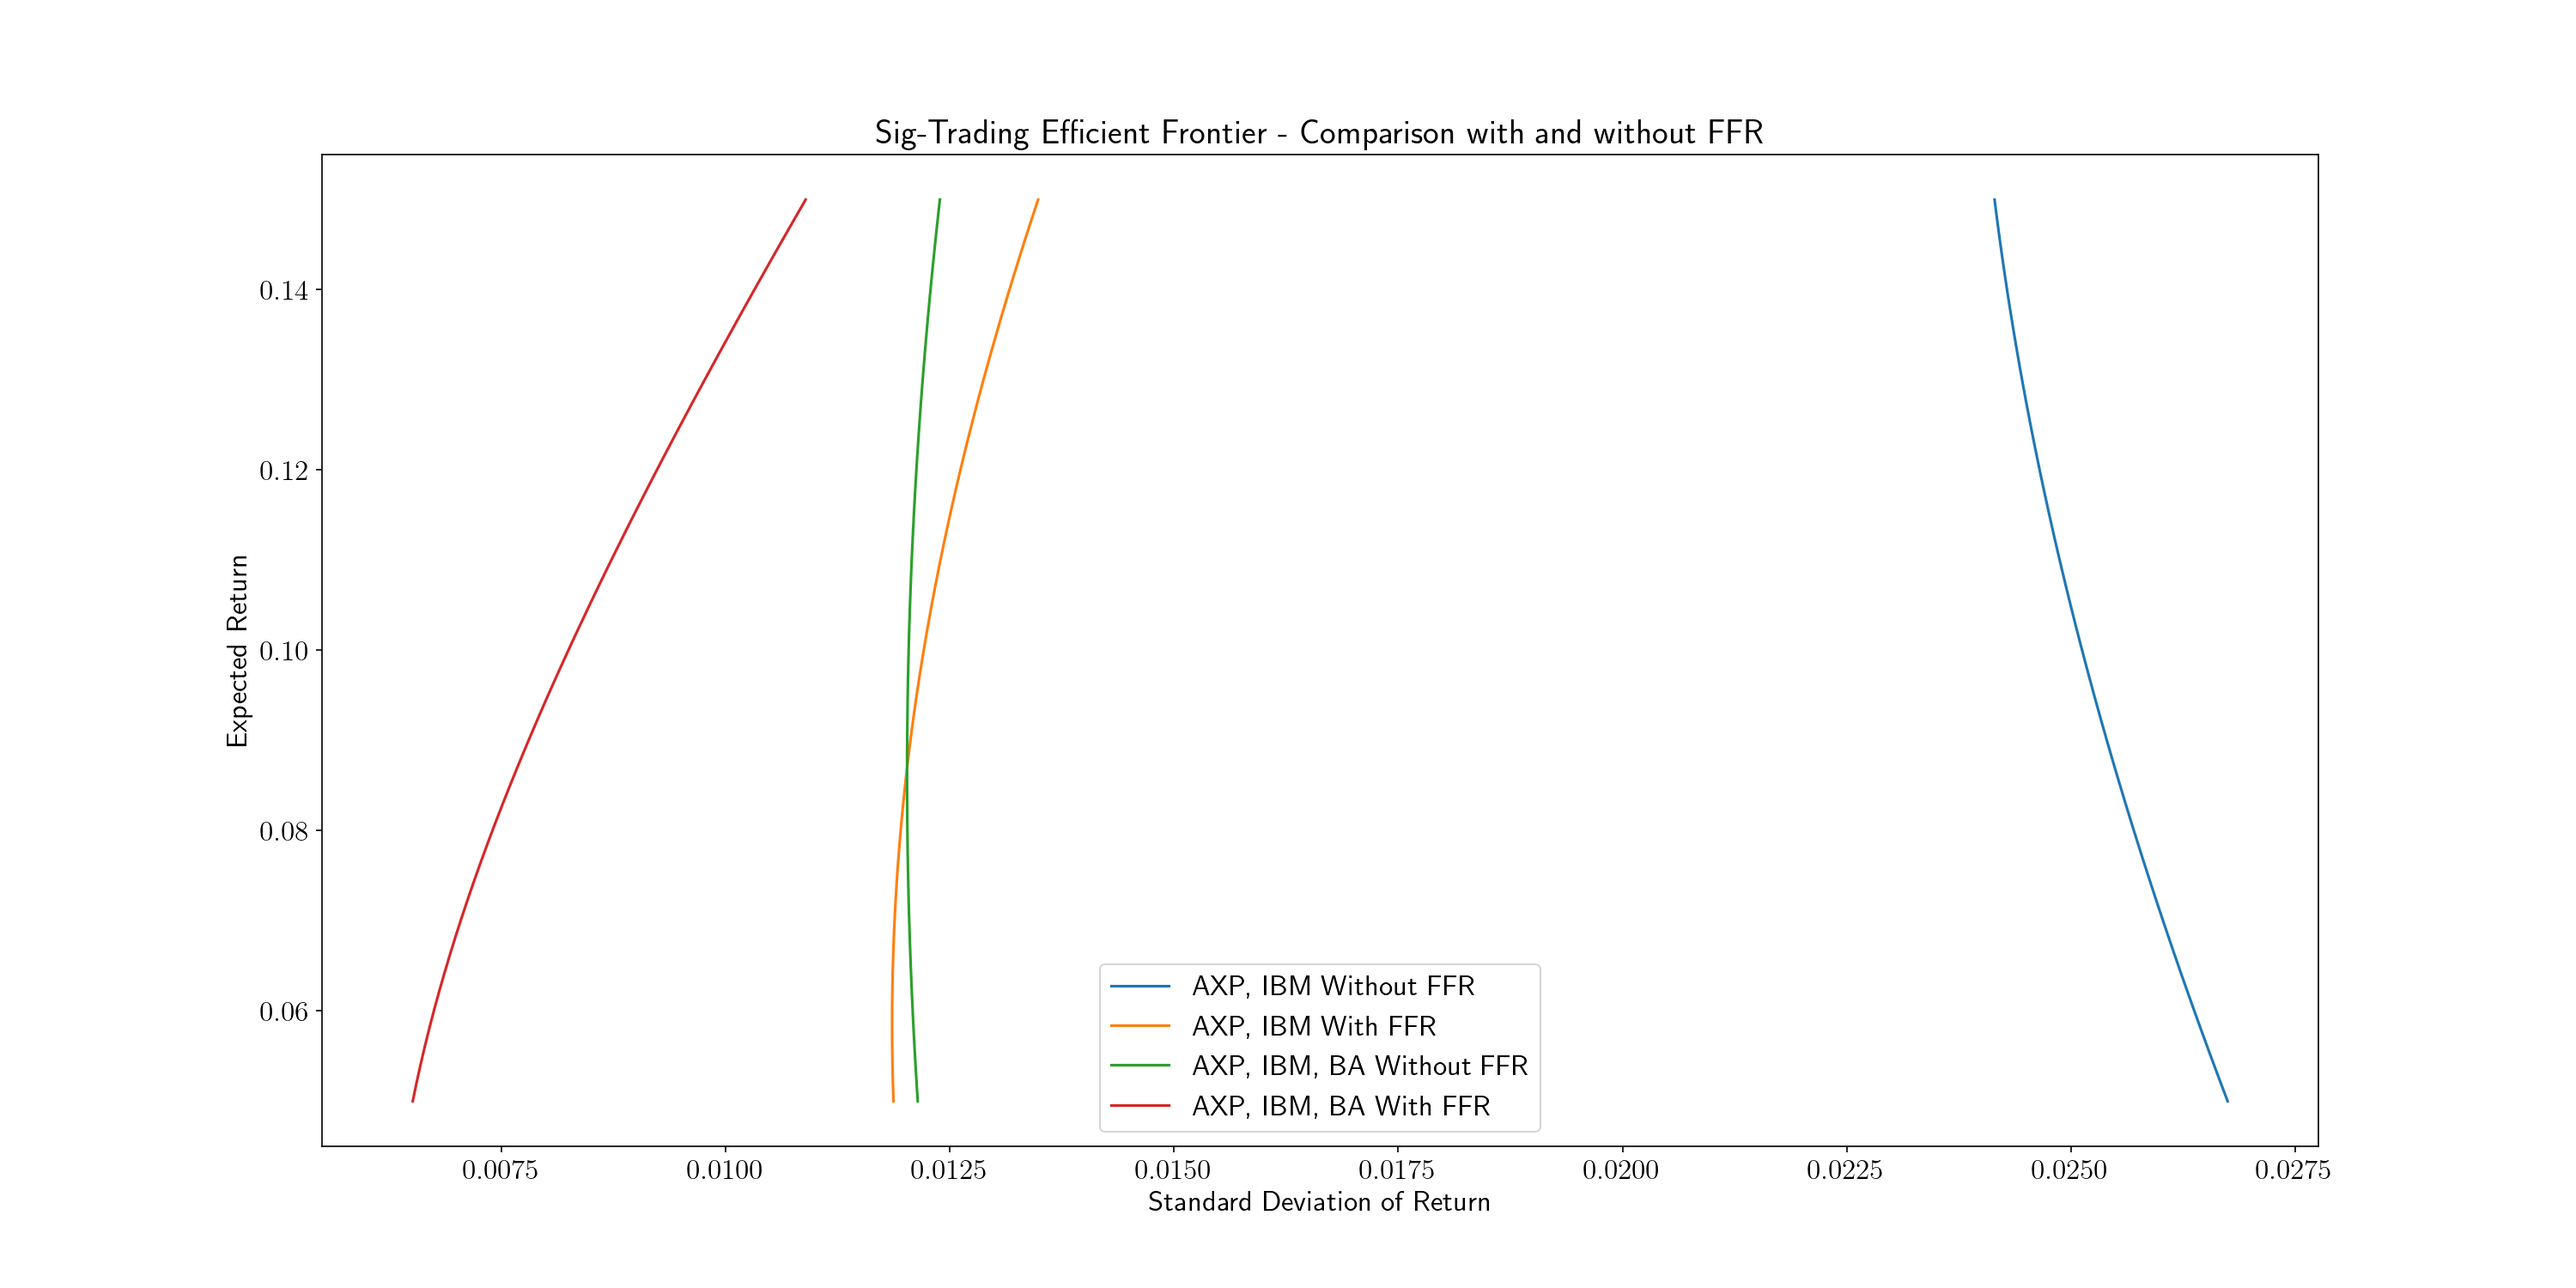
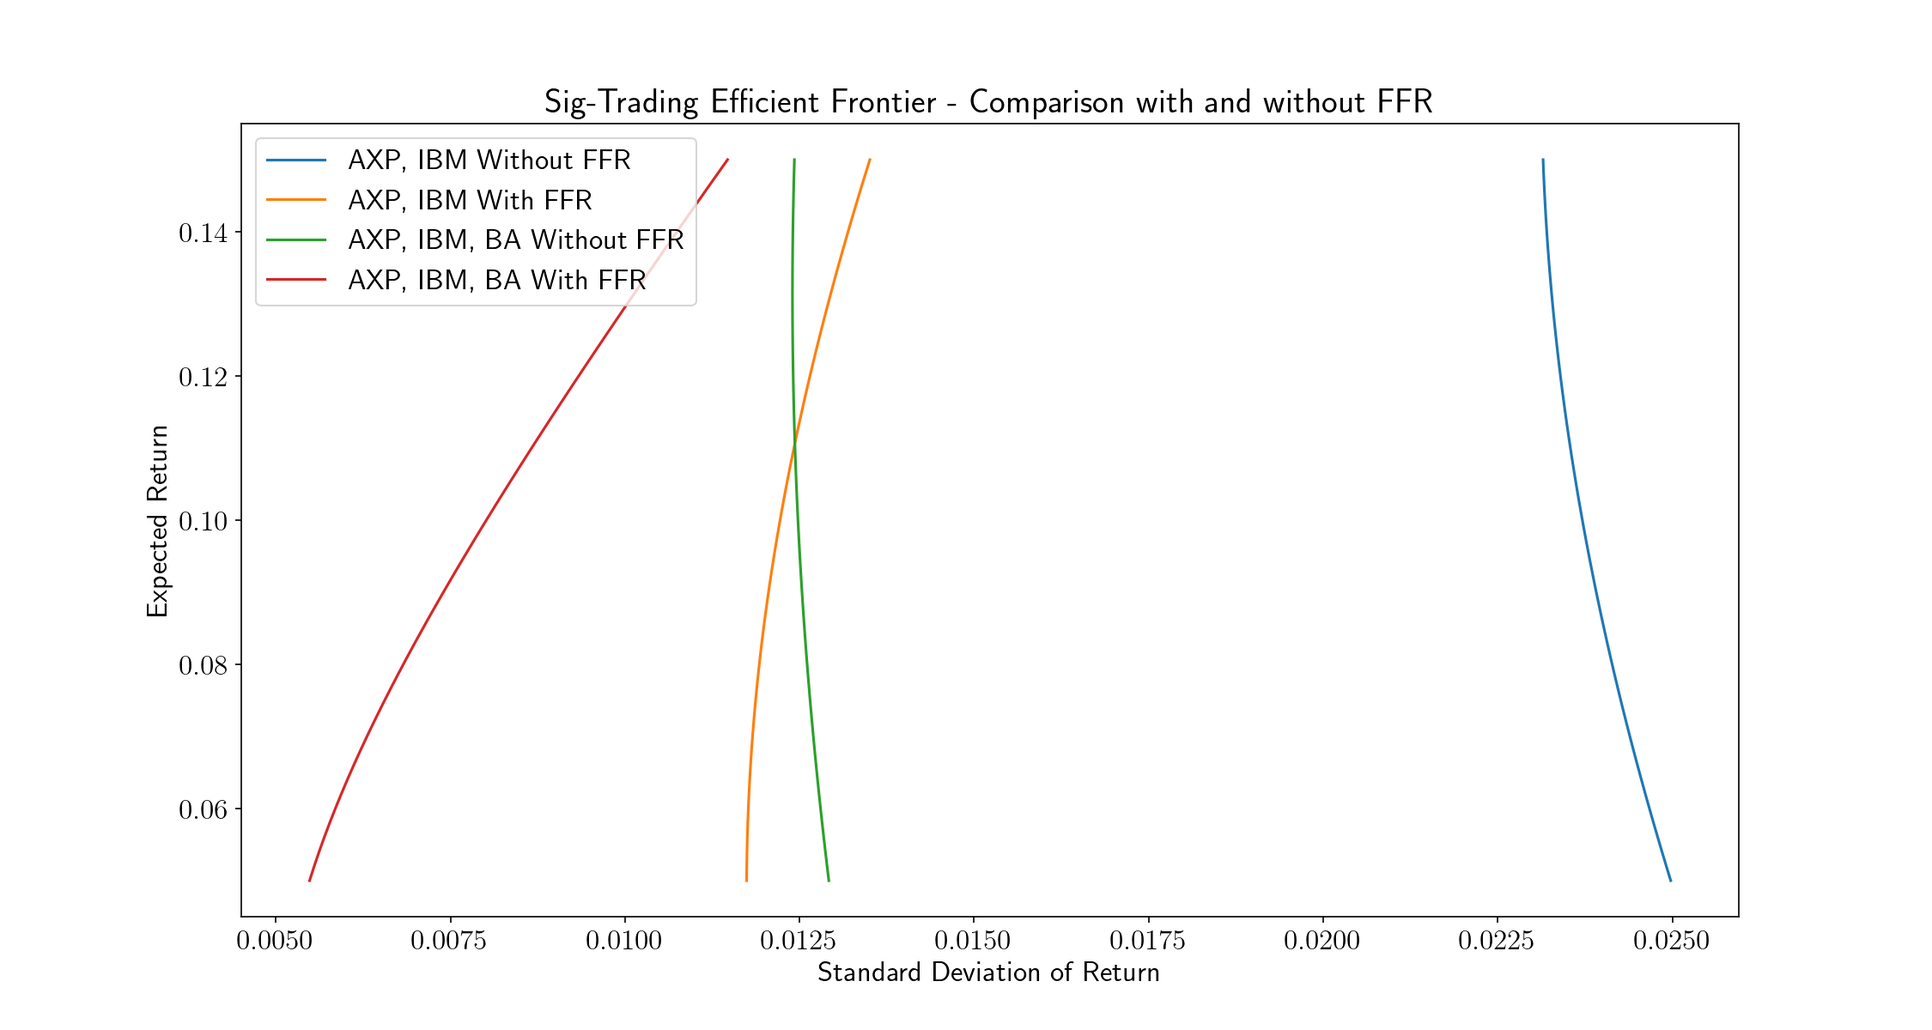
More tests

diff --git a/optimisation/sig_trading_run.py b/optimisation/sig_trading_run.py
@@ -148,8 +148,8 @@ def combine_all(stocks, level=2, start_date='2017-01-01', end_date='2018-01-01',
 
 
 # Choices are: AAPL, AXP, BA, CAT, CSCO, DIS, GS, HD, IBM, JPM, KO, MCD, MRK, UNH, WBA
-# stocks = ["AXP", "IBM", "BA"]
-stocks = ["JPM", "GS", "UNH"]
+stocks = ["AXP", "IBM", "BA"]
+# stocks = ["JPM", "GS", "UNH"]
 interval = (0.05, 0.15)
 pnl_n, var_n, weight_n = combine_all(stocks[:2], include_ffr=False, plot=True, frontier_interval=interval)
 pnl_n2, var_n2, weight_n2 = combine_all(stocks, include_ffr=False, plot=True, frontier_interval=interval)
